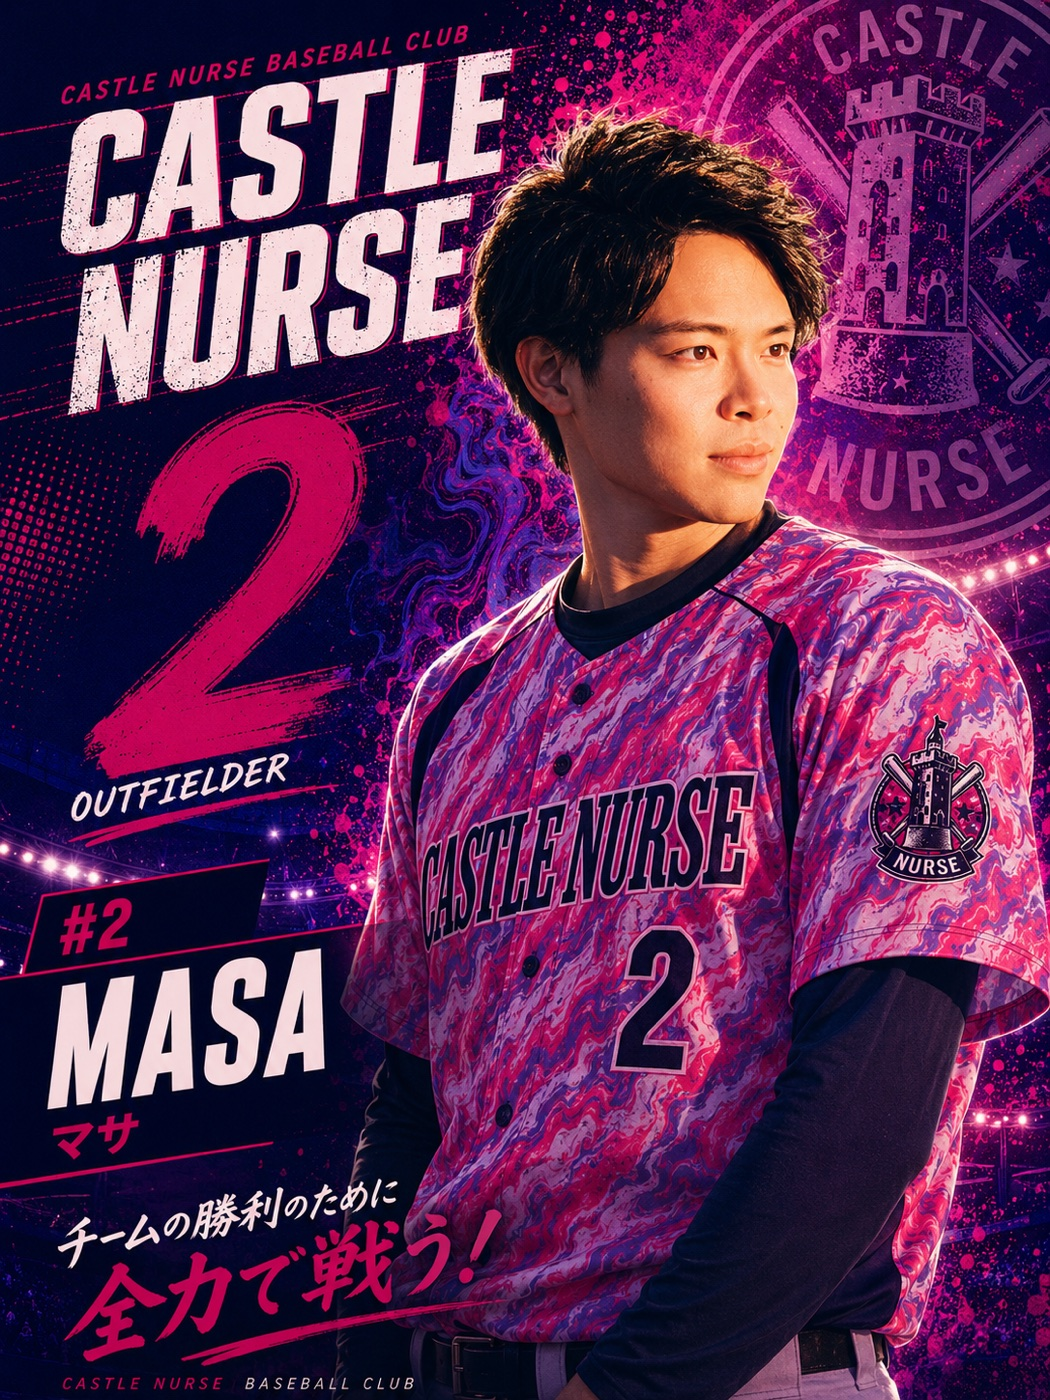
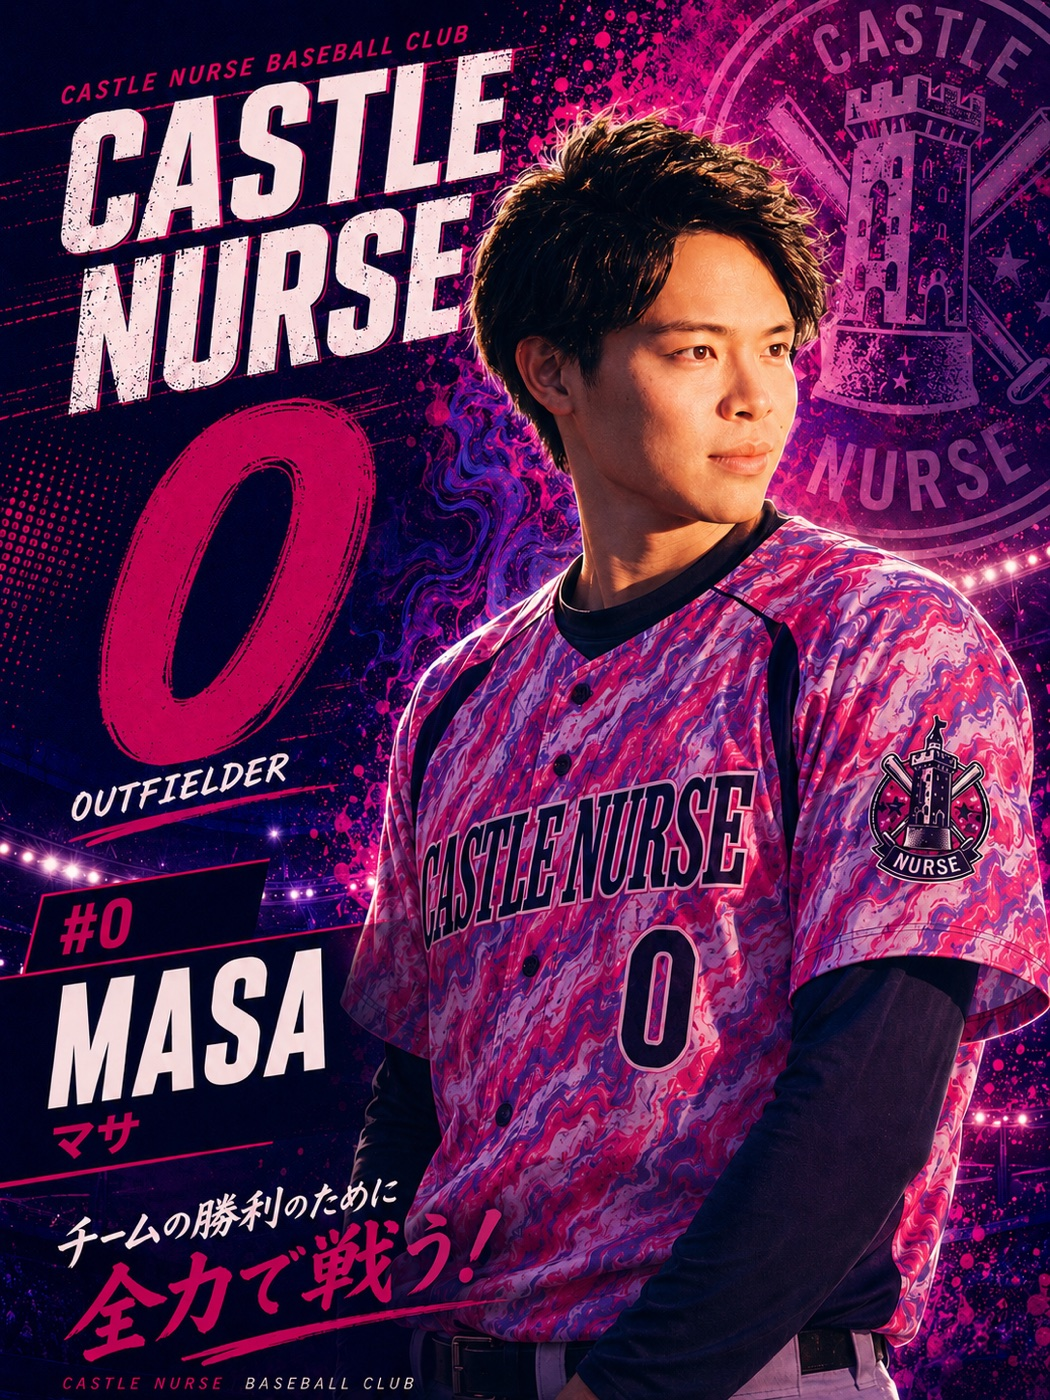
Update Masa image and Yamada bats

diff --git a/script.js b/script.js
@@ -25,7 +25,7 @@ const members = [
     photo: "./assets/members/yuki.jpg",
   },
   {
-    number: 2,
+    number: 0,
     name: "マサ",
     position: "外野手",
     bats: "右投右打",
@@ -36,7 +36,7 @@ const members = [
     number: 2,
     name: "ヤマダ",
     position: "内野手",
-    bats: "右投右打",
+    bats: "右投左打",
     note: "チームの勝利のために、全力で戦う。",
     photo: "./assets/members/yamada.jpg",
   },